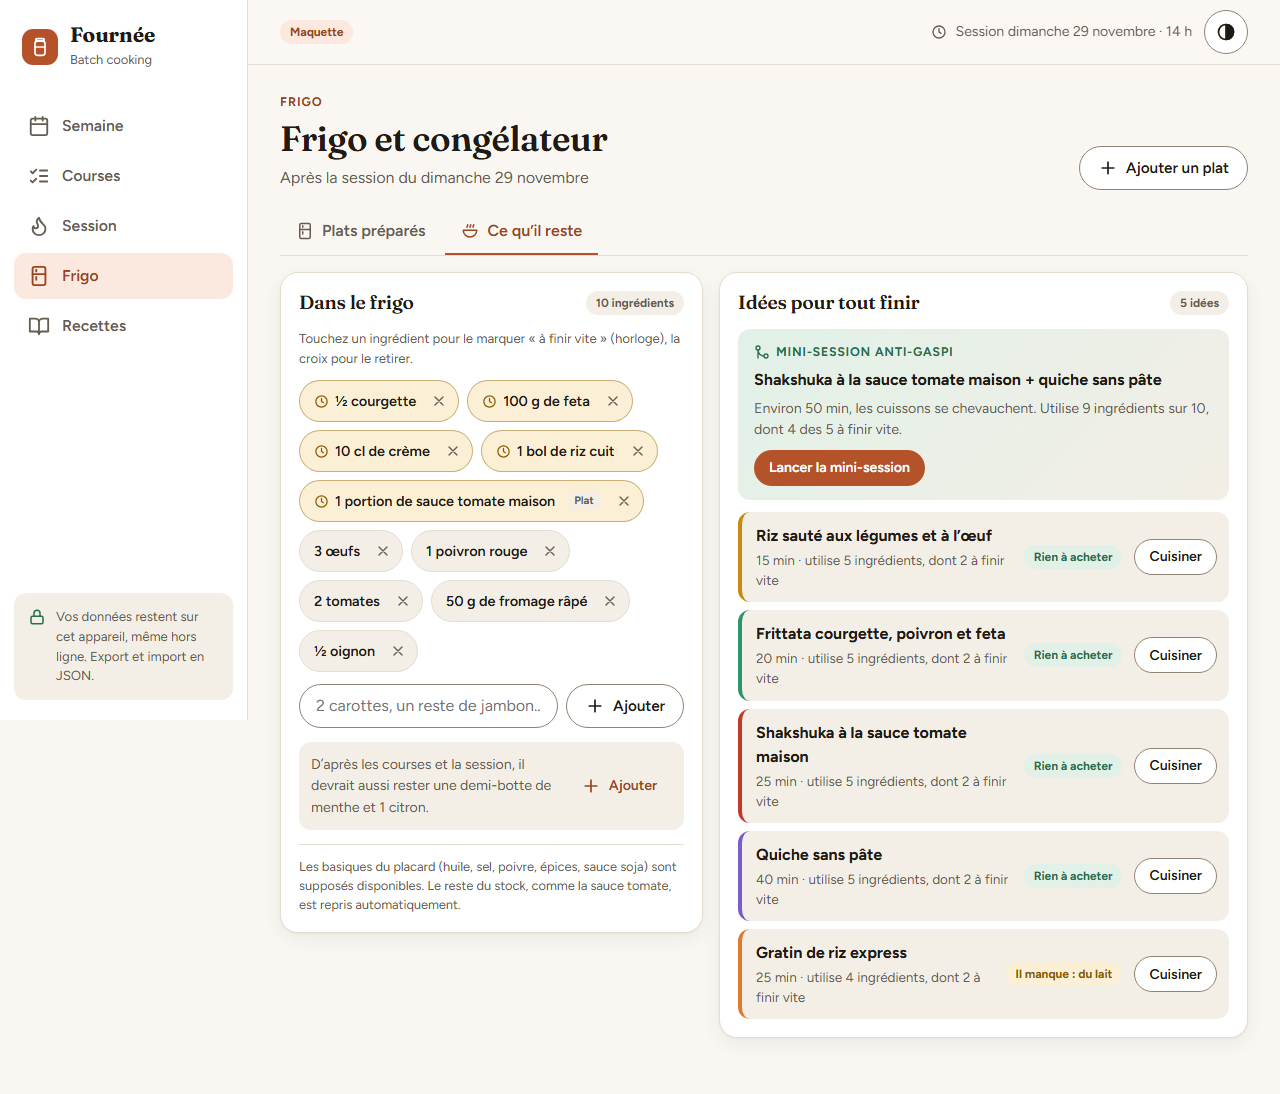
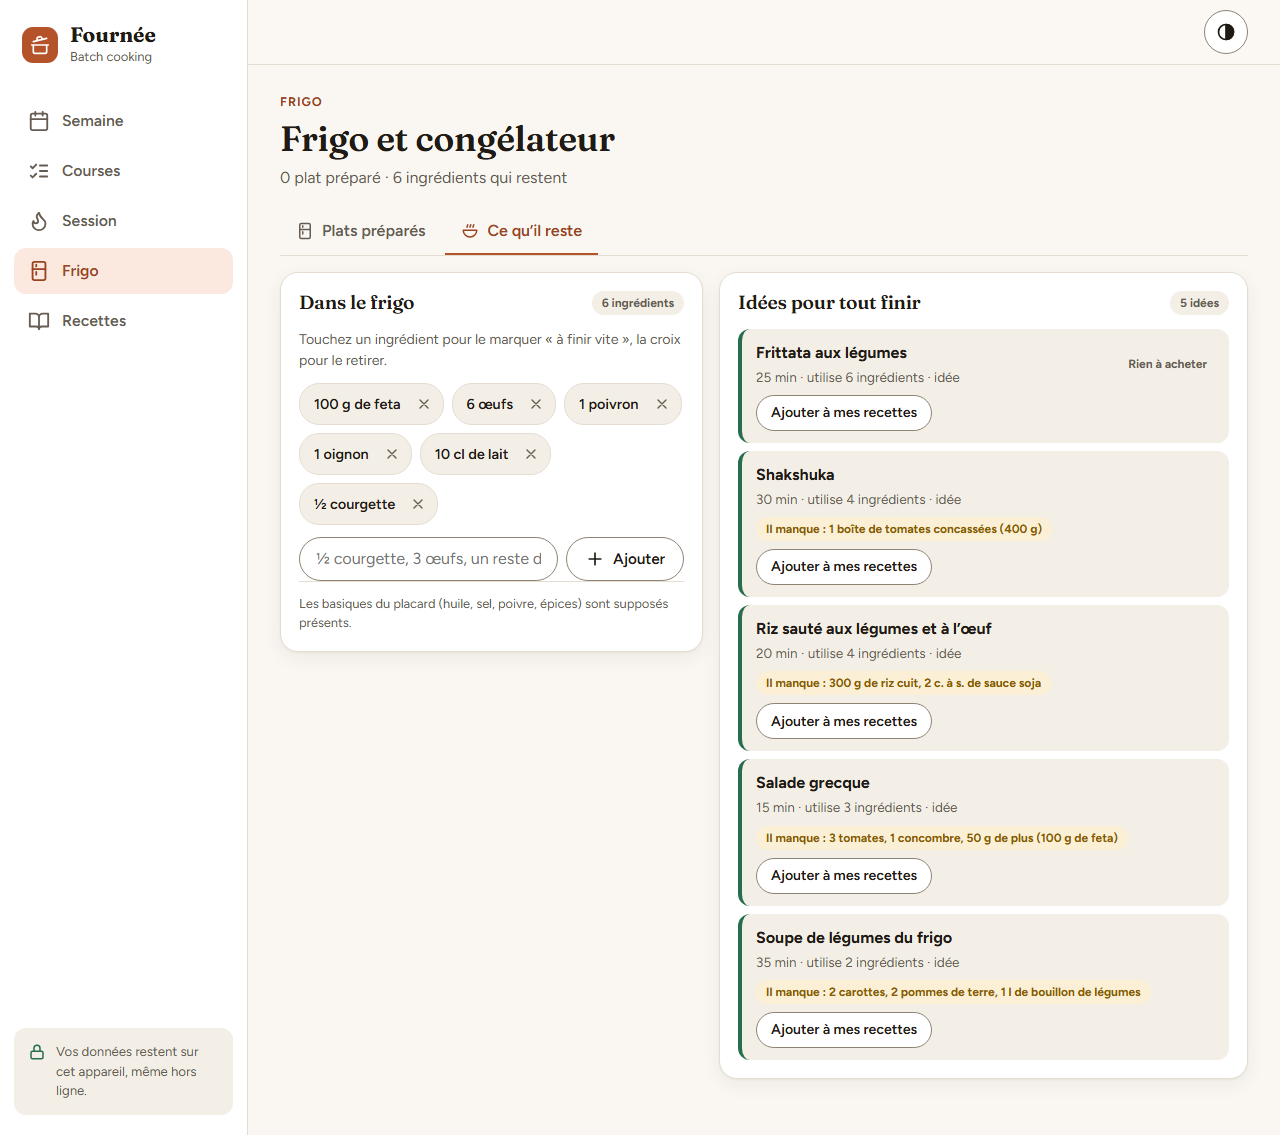
docs(captures): captures refaites depuis l’application
Les captures montraient encore la maquette. `npm run captures` les refait
depuis l’application construite : recettes de départ, prénoms de test,
horloge fixée, navigateur en français.

diff --git a/outils/captures.js b/outils/captures.js
@@ -1,0 +1,120 @@
+// Captures de docs/captures/ : l’application construite (`npm run build` avant), données fictives, horloge fixée.
+// Recettes de départ et prénoms de test seulement : aucune donnée personnelle (règle « Dépôt public »).
+import { chromium } from '@playwright/test';
+import { preview } from 'vite';
+
+const PORT = 4183;
+const serveur = await preview({ preview: { port: PORT, strictPort: true } });
+// Le format des champs date et heure suit la langue du navigateur, pas la locale du contexte.
+const navigateur = await chromium.launch({ args: ['--lang=fr-FR'] });
+const PLATS = ['Chili con carne', 'Dahl de lentilles', 'Gratin dauphinois', 'Quiche lorraine'];
+
+/** Page neuve (base vide) au thème et à la taille voulus, dimanche 29 novembre 2026 à 10 h. */
+async function ouvrir(theme, width, height) {
+  const contexte = await navigateur.newContext({
+    baseURL: `http://localhost:${PORT}/cooking/`,
+    viewport: { width, height },
+    colorScheme: theme,
+    reducedMotion: 'reduce',
+    locale: 'fr-FR',
+  });
+  const page = await contexte.newPage();
+  await page.clock.install({ time: new Date('2026-11-29T10:00:00') });
+  page.on('dialog', (d) => void d.accept());
+  return page;
+}
+
+async function aller(page, ancre) {
+  await page.goto(`./${ancre}`);
+  await page.locator('main h1').first().waitFor();
+  await page.evaluate(() => document.fonts.ready);
+}
+
+async function preparerFournee(page) {
+  await aller(page, '#semaine');
+  await page.locator('.carte-session').waitFor();
+  for (const nom of PLATS) {
+    await page.getByRole('button', { name: 'Ajouter un plat' }).click();
+    const dialogue = page.getByRole('dialog');
+    await dialogue.getByRole('searchbox').fill(nom);
+    await dialogue.getByRole('button', { name: new RegExp(`^${nom}`) }).click();
+    await dialogue.getByRole('button', { name: 'Ajouter à la fournée' }).click();
+    await page.getByRole('dialog').waitFor({ state: 'detached' });
+  }
+  await page.getByRole('button', { name: 'Répartir automatiquement' }).click();
+}
+
+/**
+ * Pleine page : la fenêtre prend la hauteur du document (une capture `fullPage` laisserait le bandeau et la
+ * barre d’onglets au milieu). Les annonces passagères sont masquées.
+ */
+async function capturer(page, nom, pleinePage = true) {
+  await page.addStyleTag({ content: '.annonce-zone { display: none !important; }' });
+  await page.evaluate(() => document.activeElement instanceof HTMLElement && document.activeElement.blur());
+  if (pleinePage) {
+    const hauteur = await page.evaluate(() => document.documentElement.scrollHeight);
+    await page.setViewportSize({ width: page.viewportSize().width, height: hauteur });
+  }
+  await page.waitForTimeout(300);
+  await page.screenshot({ path: `docs/captures/${nom}.png` });
+  console.log(`docs/captures/${nom}.png`);
+  await page.context().close();
+}
+
+try {
+  let page = await ouvrir('dark', 390, 844);
+  await preparerFournee(page);
+  await aller(page, '#semaine');
+  await capturer(page, 'semaine-390-dark');
+
+  page = await ouvrir('light', 1280, 720);
+  await preparerFournee(page);
+  await aller(page, '#session');
+  await page.getByLabel('Prénom de la personne 1').fill('Guillaume');
+  await page.getByRole('button', { name: 'Ajouter une personne' }).click();
+  await page.getByLabel('Prénom de la personne 2').fill('Hélène');
+  await page.locator('.repartition-personne').nth(1).waitFor();
+  await capturer(page, 'session-1280-light');
+
+  page = await ouvrir('light', 390, 844);
+  await preparerFournee(page);
+  await aller(page, '#session');
+  await page.getByRole('button', { name: 'Lancer la session' }).click();
+  await page.getByRole('button', { name: 'Terminer la session' }).click();
+  await page.locator('.bilan').waitFor();
+  await aller(page, '#frigo');
+  await page.locator('.plat').first().waitFor();
+  await capturer(page, 'frigo-390-light');
+
+  page = await ouvrir('light', 1280, 720);
+  await aller(page, '#reste');
+  await page
+    .getByLabel('Ajouter un ingrédient')
+    .fill('½ courgette, 100 g de feta, 6 œufs, 1 poivron, 1 oignon, 10 cl de lait');
+  await page.getByRole('button', { name: 'Ajouter', exact: true }).click();
+  await page.locator('.idee').first().waitFor();
+  await capturer(page, 'reste-1280-light');
+
+  page = await ouvrir('dark', 1280, 720);
+  await aller(page, '#recettes');
+  await page.locator('.carte-recette').nth(20).waitFor();
+  await capturer(page, 'recettes-1280-dark', false);
+
+  page = await ouvrir('dark', 390, 844);
+  await aller(page, '#recettes');
+  await page.getByRole('button', { name: 'Nouvelle recette' }).click();
+  const editeur = page.getByRole('dialog');
+  await editeur.getByLabel('Nom').fill('Hachis parmentier');
+  await editeur.getByLabel('De qui ?').fill('Mamie');
+  await editeur
+    .getByLabel('La recette, telle qu’on la raconte')
+    .fill(
+      'Cuire 1 kg de pommes de terre 25 min dans l’eau salée. Pendant ce temps, faire revenir 2 oignons puis 500 g de bœuf haché. Écraser les pommes de terre avec 20 cl de lait et 50 g de beurre. Monter dans le plat et gratiner 20 min à 200 °C.',
+    );
+  await editeur.getByRole('button', { name: 'Proposer les étapes' }).click();
+  await editeur.locator('.etape-editable').first().waitFor();
+  await capturer(page, 'editeur-390-dark', false);
+} finally {
+  await navigateur.close();
+  await new Promise((fin) => serveur.httpServer.close(fin));
+}
